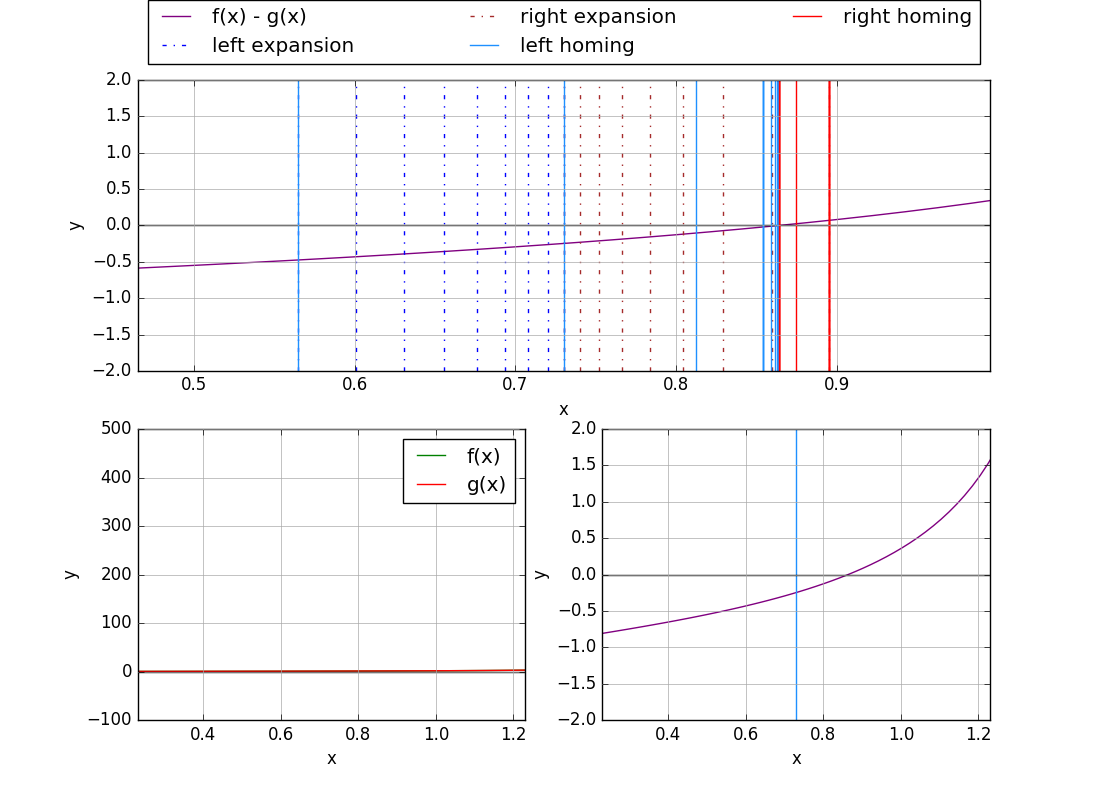
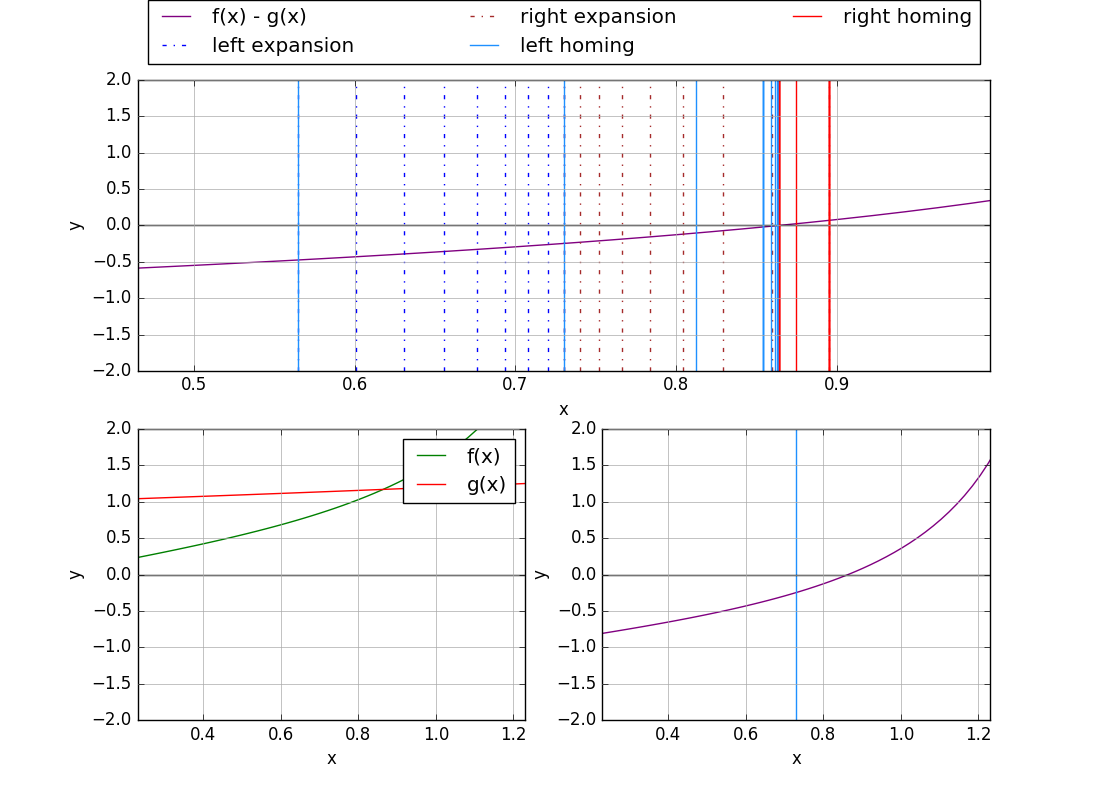
fixed plot bug

Changed region(s): [[0.0927, 0.5312, 0.4636, 0.9062], [0.1545, 0.6562, 0.2473, 0.6875]]

diff --git a/src/bisection/bisection.py b/src/bisection/bisection.py
@@ -51,7 +51,7 @@ def intersect(f, g, x0, tol=.001, plot=False):
         mygrid = gs.GridSpec(2, 2)
 
         # define an axis in bottom left corner to hold the function plot
-        funplot = plt.subplot(mygrid[1, 0])
+        funcplot = plt.subplot(mygrid[1, 0])
         # define an axis in bottom right corner to hold the delta plot
         dplot = plt.subplot(mygrid[1, 1])
         # define an axis spanning the entire top to hold to algorithm plot
@@ -71,23 +71,24 @@ def intersect(f, g, x0, tol=.001, plot=False):
         g_vals = [g(x) for x in x_vals]
         delta_vals = [delta(x) for x in x_vals]
 
-        ## plot the f and g functions on the funplot
+        ## plot the f and g functions on the funcplot
 
         # make the f function green, with a solid line, and a figure legend f(x)
-        funplot.plot(x_vals, f_vals, 'g-', label='f(x)')
+        funcplot.plot(x_vals, f_vals, 'g-', label='f(x)')
 
         # make the g function red, with a solid line, and a figure legend g(x),
         # over the top of the f_plot
-        funplot.plot(x_vals, f_vals, 'r-', label='g(x)')
+        funcplot.plot(x_vals, g_vals, 'r-', label='g(x)')
 
         # Define the axes labels
-        funplot.set_xlabel('x')
-        funplot.set_ylabel('y')
+        funcplot.set_xlabel('x')
+        funcplot.set_ylabel('y')
         # Define the horizontal and vertical limits
-        funplot.set_xlim([x0-.5, x0+.5])
+        funcplot.set_xlim([x0-.5, x0+.5])
+        funcplot.set_ylim([-2, 2])
         # Create the grid
-        funplot.grid(True, which='major', linestyle='-', color='darkgrey')
-        funplot.axhline(0, linestyle='-', color='k')
+        funcplot.grid(True, which='major', linestyle='-', color='darkgrey')
+        funcplot.axhline(0, linestyle='-', color='k')
 
         ## plot the delta function on the deltaplot, along with the initial guess
 
@@ -128,7 +129,7 @@ def intersect(f, g, x0, tol=.001, plot=False):
         # finalize the plots by adding legends, and saving the figure
         if plot:
             # Add legends. Only plots with labels will be added to the legend.
-            funplot.legend()
+            funcplot.legend()
             alplot.legend(bbox_to_anchor=(0., 1.02, 1., .102), loc=3, ncol=3, mode='expand')
             plt.savefig('bisection.png')
 
@@ -183,7 +184,7 @@ def intersect(f, g, x0, tol=.001, plot=False):
             # finalize the plots by adding legends, and saving the figure
             if plot:
                 # Add legends. Only plots with labels will be added to the legend.
-                funplot.legend()
+                funcplot.legend()
                 alplot.legend(bbox_to_anchor=(0., 1.02, 1., .102), loc=3, ncol=3, mode='expand')
                 plt.savefig('bisection.png')
             # if we hit the the intersection exactly, return it.
@@ -208,7 +209,7 @@ def intersect(f, g, x0, tol=.001, plot=False):
     # finalize the plots by adding legends, and saving the figure
     if plot:
         # Add legends. Only plots with labels will be added to the legend.
-        funplot.legend()
+        funcplot.legend()
         alplot.legend(bbox_to_anchor=(0., 1.02, 1., .102), loc=3, ncol=3, mode='expand')
         plt.savefig('bisection.png')
     # At this point, we know that bnd[1] and bnd[0] lie on opposite sides of the intersection
